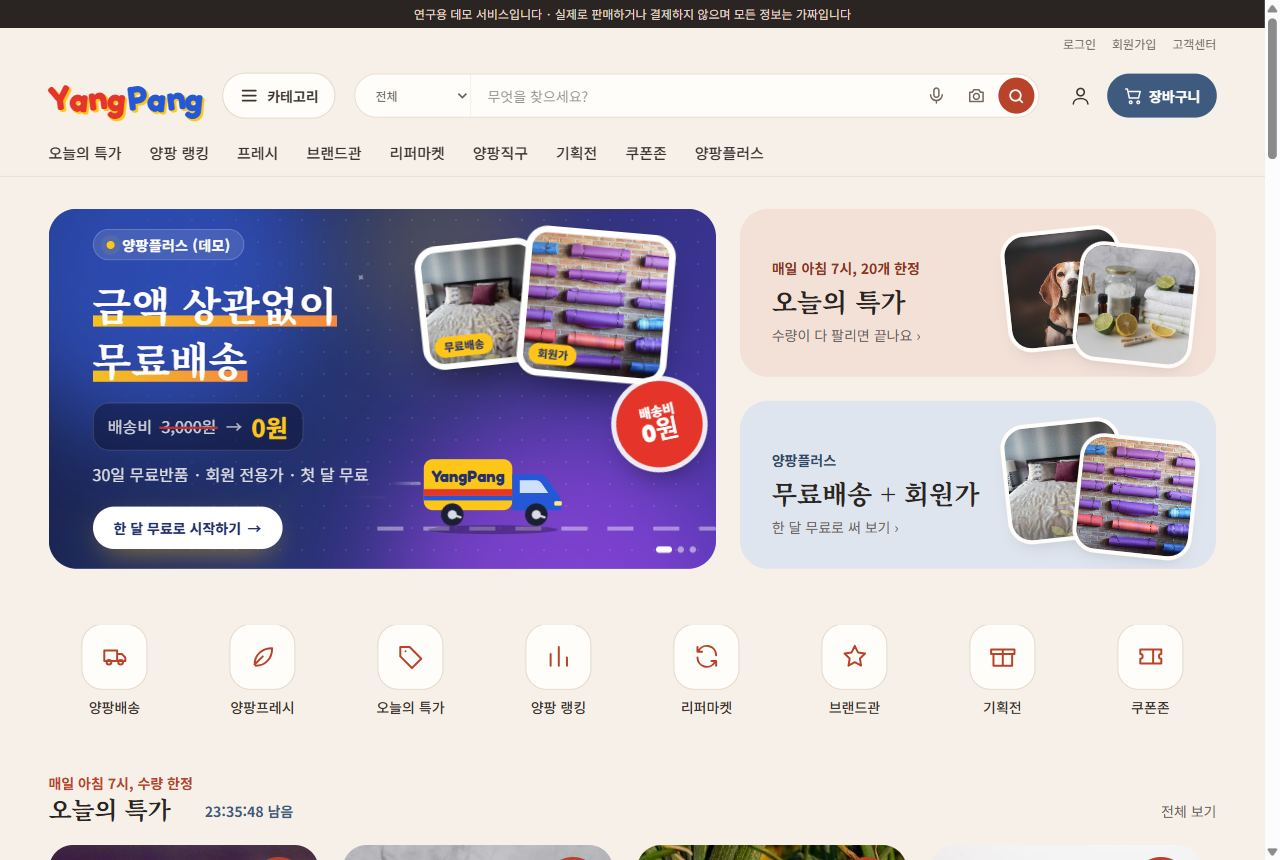
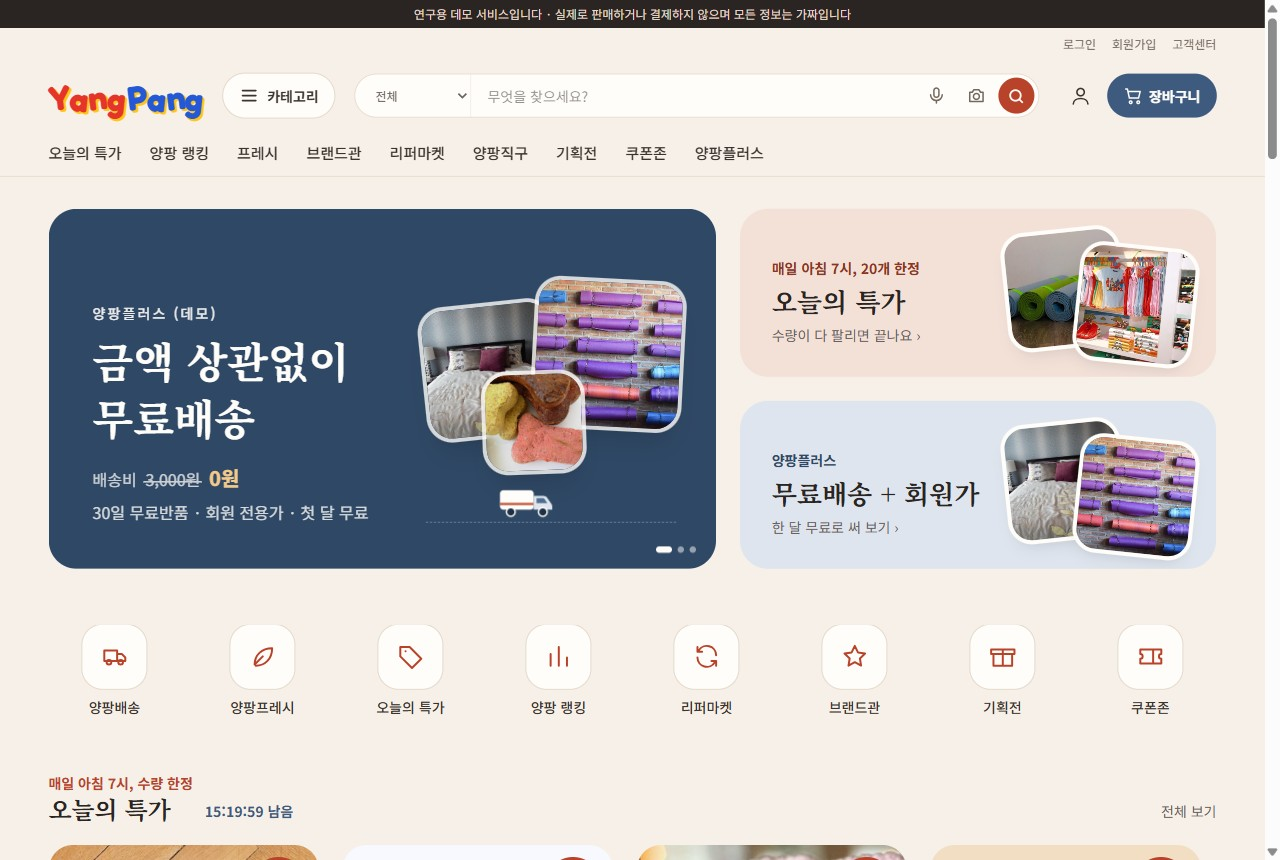
홈 무료배송 배너를 다른 배너와 같은 차분한 틀로 개편
- 빛 번짐·점 무늬·반짝이·형광펜·도장·흔들리는 트럭·빛나는 버튼 제거
- 단색 청회색 바탕, 왼쪽 아래 글자, 오른쪽 펼친 사진 카드 (다른 배너와 같은 틀)
- 움직임은 두 가지만: 배송비 3,000원 → 0원 한 번, 사진 아래 작은 트럭이 천천히 지나감 (PC)
- README 홈 스크린샷 갱신

diff --git a/api/src/main/tailwind/app.css b/api/src/main/tailwind/app.css
@@ -134,103 +134,30 @@
 }
 
 /*
- * ===== 홈 무료배송(양팡플러스) 배너 (2026-11-21) =====
- * 짙은 남색~보라 바탕 + 움직이는 빛 번짐, 로고 색 트럭이 달리는 길, 둥실 뜬 상품 사진 상자,
- * "배송비 3,000원 → 0원" 반복, 빛이 지나가는 버튼. 움직임 줄이기 설정이면 모두 멈춘다.
+ * ===== 홈 무료배송(양팡플러스) 배너 (2026-11-21 개편) =====
+ * 다른 배너와 같은 단색(plus) 바탕. 움직임은 두 가지만, 조용하게:
+ * 처음 한 번 "3,000원"에 줄이 그어지고 "0원"이 나타남, 사진 아래 길을 작은 트럭이 천천히 지나감.
  */
-.yp-free {
-  --yp-yellow: #ffc61a;
-  --yp-red: #e5352b;
-  --yp-blue: #2458d6;
-  background: linear-gradient(120deg, #141c3f 0%, #22306b 45%, #4a35a8 100%);
-  isolation: isolate;
+.yp-fee { display: inline-flex; align-items: baseline; gap: .55rem; }
+.yp-fee-old { position: relative; opacity: .75; }
+.yp-fee-old::after { content: ""; position: absolute; left: -2px; right: -2px; top: 55%; height: 1.5px; background: currentColor;
+  transform-origin: left; transform: scaleX(0); animation: yp-strike .6s .5s ease-out forwards; }
+@keyframes yp-strike { to { transform: scaleX(1); } }
+.yp-fee-new { font-weight: 800; font-size: 1.25em; color: #f3c98b; opacity: 0; animation: yp-zero .5s 1s ease-out forwards; }
+@keyframes yp-zero { from { opacity: 0; transform: translateY(4px); } to { opacity: 1; transform: none; } }
+
+.yp-lane { height: 34px; border-bottom: 1.5px dashed rgba(255,253,249,.35); }
+.yp-truck { position: absolute; left: 0; bottom: 3px; animation: yp-drive 9s linear infinite; }
+@keyframes yp-drive {
+  0% { transform: translateX(0); opacity: 0; }
+  8% { opacity: 1; }
+  85% { opacity: 1; }
+  100% { transform: translateX(192px); opacity: 0; }
 }
-.yp-free-blob {
-  position: absolute; border-radius: 9999px; filter: blur(48px); opacity: .55; z-index: -1;
-  animation: yp-blob 14s ease-in-out infinite alternate;
-}
-.yp-free-blob.b1 { width: 340px; height: 340px; left: -80px; top: -120px; background: #3d6bff; }
-.yp-free-blob.b2 { width: 300px; height: 300px; right: 8%; bottom: -150px; background: #b14dff; animation-delay: -6s; }
-.yp-free-blob.b3 { width: 180px; height: 180px; right: 30%; top: -60px; background: var(--yp-yellow); opacity: .22; animation-delay: -3s; }
-.yp-free-grid {
-  position: absolute; inset: 0; z-index: -1; opacity: .18;
-  background-image: radial-gradient(rgba(255,255,255,.55) 1px, transparent 1px);
-  background-size: 22px 22px;
-  mask-image: linear-gradient(90deg, transparent 0%, #000 45%, #000 100%);
-}
-@keyframes yp-blob { to { transform: translate(60px, 30px) scale(1.15); } }
-
-.yp-spark { position: absolute; color: #fff; font-size: 14px; opacity: 0; animation: yp-twinkle 3.2s ease-in-out infinite; }
-@keyframes yp-twinkle { 0%, 100% { opacity: 0; transform: scale(.4) rotate(0deg); } 50% { opacity: .95; transform: scale(1) rotate(90deg); } }
-
-/* 깜빡이는 점이 있는 문구 */
-.yp-chip { display: inline-flex; align-items: center; gap: .5rem; border-radius: 9999px; padding: .3rem .8rem;
-  background: rgba(255,255,255,.12); border: 1px solid rgba(255,255,255,.22); backdrop-filter: blur(6px); }
-.yp-dot { position: relative; width: 8px; height: 8px; border-radius: 9999px; background: var(--yp-yellow); }
-.yp-dot::after { content: ""; position: absolute; inset: 0; border-radius: 9999px; background: var(--yp-yellow); animation: yp-ping 1.8s cubic-bezier(0,0,.2,1) infinite; }
-@keyframes yp-ping { 75%, 100% { transform: scale(2.6); opacity: 0; } }
-
-/* 제목 형광펜 (그어지듯 나타남) */
-.yp-hl {
-  background-image: linear-gradient(90deg, rgba(255,198,26,.95), rgba(255,140,60,.95));
-  background-repeat: no-repeat; background-position: 0 88%; background-size: 0% .28em;
-  -webkit-box-decoration-break: clone; box-decoration-break: clone;
-  animation: yp-marker 1.1s .35s cubic-bezier(.2,.8,.2,1) forwards;
-}
-@keyframes yp-marker { to { background-size: 100% .28em; } }
-
-/* 배송비 3,000원 → 0원 (4초마다 반복) */
-.yp-fee { display: inline-flex; align-items: center; gap: .6rem; border-radius: 16px; padding: .45rem .9rem;
-  background: rgba(10,14,40,.45); border: 1px solid rgba(255,255,255,.16); }
-.yp-fee-old { position: relative; opacity: .8; }
-.yp-fee-old::after { content: ""; position: absolute; left: -2px; right: -2px; top: 52%; height: 2px; background: var(--yp-red);
-  transform-origin: left; transform: scaleX(0); animation: yp-strike 4s ease-in-out infinite; }
-@keyframes yp-strike { 0%, 12% { transform: scaleX(0); } 28%, 88% { transform: scaleX(1); } 100% { transform: scaleX(0); } }
-.yp-fee-new { display: inline-block; color: var(--yp-yellow); font-weight: 900; transform-origin: center; animation: yp-zero 4s ease-in-out infinite; }
-@keyframes yp-zero { 0%, 25% { transform: scale(.6); opacity: 0; } 36% { transform: scale(1.35); opacity: 1; } 44%, 88% { transform: scale(1); opacity: 1; } 100% { transform: scale(.6); opacity: 0; } }
-
-/* 빛이 지나가는 버튼 */
-.yp-cta { position: relative; overflow: hidden; align-items: center; gap: .4rem; border-radius: 9999px;
-  background: #fff; color: #22306b; font-weight: 800; padding: .7rem 1.3rem; box-shadow: 0 10px 30px -10px rgba(255,198,26,.65);
-  transition: transform .2s ease, box-shadow .2s ease; }
-.yp-free:hover .yp-cta { transform: translateY(-2px); box-shadow: 0 14px 34px -10px rgba(255,198,26,.9); }
-.yp-cta::after { content: ""; position: absolute; inset: 0; width: 40%;
-  background: linear-gradient(100deg, transparent, rgba(255,198,26,.55), transparent);
-  transform: translateX(-160%) skewX(-20deg); animation: yp-shine 3.4s ease-in-out infinite; }
-@keyframes yp-shine { 0%, 55% { transform: translateX(-160%) skewX(-20deg); } 85%, 100% { transform: translateX(320%) skewX(-20deg); } }
-.yp-cta .yp-arrow { transition: transform .2s ease; }
-.yp-free:hover .yp-cta .yp-arrow { transform: translateX(4px); }
-
-/* 오른쪽 무대: 길 + 트럭 + 떠 있는 사진 상자 */
-.yp-road { position: absolute; left: 0; right: 0; bottom: 38px; height: 4px; border-radius: 4px;
-  background: repeating-linear-gradient(90deg, rgba(255,255,255,.75) 0 26px, transparent 26px 46px);
-  background-size: 46px 4px; animation: yp-dash .55s linear infinite; opacity: .55; }
-@keyframes yp-dash { to { background-position: -46px 0; } }
-.yp-truck { position: absolute; animation: yp-truck-in 1.2s cubic-bezier(.2,.9,.3,1.2) both, yp-bob .5s ease-in-out 1.2s infinite alternate; }
-@keyframes yp-truck-in { from { transform: translateX(-260px); opacity: 0; } to { transform: translateX(0); opacity: 1; } }
-@keyframes yp-bob { to { transform: translateY(-3px); } }
-.yp-truck .yp-wheel { transform-box: fill-box; transform-origin: center; animation: yp-spin .5s linear infinite; }
-@keyframes yp-spin { to { transform: rotate(360deg); } }
-.yp-speed { position: absolute; height: 3px; border-radius: 3px; background: linear-gradient(90deg, transparent, rgba(255,255,255,.8));
-  animation: yp-speed .9s linear infinite; }
-@keyframes yp-speed { from { transform: translateX(30px); opacity: 0; } 30% { opacity: 1; } to { transform: translateX(-60px); opacity: 0; } }
-.yp-parcel { position: absolute; border-radius: 22px; overflow: hidden; background: #fff; padding: 6px;
-  box-shadow: 0 22px 40px -18px rgba(0,0,0,.6); animation: yp-float 4.5s ease-in-out infinite; }
-.yp-parcel img { display: block; width: 100%; height: 100%; object-fit: cover; border-radius: 16px; }
-.yp-parcel .yp-tag { position: absolute; left: 12px; bottom: 12px; border-radius: 9999px; padding: 2px 9px; font-size: 11px; font-weight: 800;
-  background: var(--yp-yellow); color: #22306b; }
-@keyframes yp-float { 0%, 100% { transform: translateY(0) rotate(var(--r, 0deg)); } 50% { transform: translateY(-12px) rotate(var(--r, 0deg)); } }
-.yp-stamp { position: absolute; display: flex; align-items: center; justify-content: center; border-radius: 9999px;
-  width: 86px; height: 86px; background: var(--yp-red); color: #fff; font-weight: 900; line-height: 1.05; text-align: center;
-  font-size: 13px; box-shadow: 0 0 0 5px rgba(255,255,255,.9), 0 16px 30px -10px rgba(0,0,0,.5);
-  animation: yp-stamp 4s ease-in-out infinite; }
-.yp-stamp b { display: block; font-size: 24px; font-family: "Fredoka", system-ui, sans-serif; }
-@keyframes yp-stamp { 0%, 30% { transform: scale(0) rotate(-40deg); } 40% { transform: scale(1.15) rotate(-8deg); } 48%, 90% { transform: scale(1) rotate(-12deg); } 100% { transform: scale(0) rotate(-40deg); } }
 
 @media (prefers-reduced-motion: reduce) {
-  .yp-free *, .yp-free *::before, .yp-free *::after { animation: none !important; transition: none !important; }
-  .yp-hl { background-size: 100% .28em; }
+  .yp-free *, .yp-free *::before, .yp-free *::after { animation: none !important; }
   .yp-fee-old::after { transform: scaleX(1); }
-  .yp-fee-new, .yp-stamp { opacity: 1; transform: none; }
-  .yp-spark { opacity: .6; }
+  .yp-fee-new { opacity: 1; }
+  .yp-truck { transform: translateX(96px); }
 }

diff --git a/api/src/main/resources/templates/fragments/promo.html b/api/src/main/resources/templates/fragments/promo.html
@@ -2,65 +2,38 @@
 <html lang="ko" xmlns:th="http://www.thymeleaf.org">
 <body>
 <!--
-  홈 무료배송(양팡플러스) 배너 슬라이드. 문구는 관리자 배너(제목·설명·문구)를 그대로 쓰고, 배송비는 운영 기준값.
+  홈 무료배송(양팡플러스) 배너 슬라이드. 다른 배너 슬라이드와 같은 틀(단색 바탕·왼쪽 아래 글자·오른쪽 사진 카드)에
+  "배송비 3,000원 → 0원" 한 줄과, 사진 아래 길을 천천히 지나가는 작은 트럭 하나만 더했다.
   pics: 플러스 회원가 상품 사진(@visuals), fee: 양팡배송 배송비. 움직임은 app.css의 .yp-free 참고
 -->
 <a th:fragment="plus(b, pics, fee)" th:href="${b.linkUrl}"
-   class="yp-free relative flex h-52 w-full shrink-0 snap-start items-center overflow-hidden p-6 text-white md:h-[360px] md:p-11">
-    <span class="yp-free-blob b1"></span><span class="yp-free-blob b2"></span><span class="yp-free-blob b3"></span>
-    <span class="yp-free-grid"></span>
-    <span class="yp-spark" style="left:46%;top:16%;animation-delay:.2s">✦</span>
-    <span class="yp-spark" style="left:58%;top:70%;animation-delay:1.4s;font-size:10px">✦</span>
-    <span class="yp-spark" style="left:88%;top:12%;animation-delay:2.1s">✦</span>
-    <span class="yp-spark" style="left:72%;top:28%;animation-delay:.9s;font-size:9px">✦</span>
-    <span class="yp-spark" style="left:36%;top:84%;animation-delay:2.6s;font-size:11px">✦</span>
-
-    <!-- 오른쪽 무대 (태블릿 이상): 떠 있는 사진 상자 + 도장 + 길 위를 달리는 트럭 -->
-    <div class="pointer-events-none absolute inset-y-0 right-0 hidden w-[52%] lg:block" aria-hidden="true">
-        <div th:if="${#lists.size(pics) > 0}" class="yp-parcel" style="--r:-6deg;right:50%;top:44px;width:124px;height:124px">
-            <img th:src="${pics[0]}" alt=""><span class="yp-tag">무료배송</span></div>
-        <div th:if="${#lists.size(pics) > 1}" class="yp-parcel" style="--r:5deg;right:13%;top:22px;width:150px;height:150px;animation-delay:-1.5s">
-            <img th:src="${pics[1]}" alt=""><span class="yp-tag">회원가</span></div>
-        <div class="yp-stamp" style="right:4%;top:172px"><span>배송비<b>0원</b></span></div>
-        <div class="yp-road"></div>
-        <span class="yp-speed" style="left:8%;bottom:70px;width:46px"></span>
-        <span class="yp-speed" style="left:14%;bottom:84px;width:30px;animation-delay:.3s"></span>
-        <svg class="yp-truck" style="left:14%;bottom:30px" width="150" height="84" viewBox="0 0 200 112" fill="none">
-            <ellipse cx="100" cy="104" rx="86" ry="6" fill="rgba(0,0,0,.28)"/>
-            <rect x="8" y="10" width="118" height="68" rx="12" fill="#ffc61a"/>
-            <rect x="8" y="50" width="118" height="9" fill="#e5352b"/>
-            <rect x="8" y="59" width="118" height="6" fill="#2458d6"/>
-            <text x="67" y="40" text-anchor="middle" font-family="Fredoka, system-ui, sans-serif" font-weight="700" font-size="22" fill="#22306b">YangPang</text>
-            <path d="M126 30h34c6 0 11 3 14 8l14 20c2 3 3 6 3 9v11H126z" fill="#2458d6"/>
-            <path d="M136 38h22c3 0 6 2 7 4l9 13h-38z" fill="#cfe0ff"/>
-            <rect x="182" y="66" width="10" height="6" rx="2" fill="#ffe680"/>
-            <g class="yp-wheel"><circle cx="46" cy="84" r="15" fill="#1b1f33"/><circle cx="46" cy="84" r="6" fill="#d9dbe6"/><rect x="44.5" y="71" width="3" height="8" rx="1.5" fill="#d9dbe6"/></g>
-            <g class="yp-wheel"><circle cx="158" cy="84" r="15" fill="#1b1f33"/><circle cx="158" cy="84" r="6" fill="#d9dbe6"/><rect x="156.5" y="71" width="3" height="8" rx="1.5" fill="#d9dbe6"/></g>
+   class="yp-free relative flex h-52 w-full shrink-0 snap-start items-end overflow-hidden bg-plus p-6 text-white md:h-[360px] md:p-11">
+    <!-- PC: 펼친 사진 카드 + 그 아래 길 위의 트럭 -->
+    <div class="absolute right-10 top-[44%] hidden -translate-y-1/2 lg:block"><div th:replace="~{fragments/visual :: fan(${pics}, 'md')}"></div></div>
+    <div class="yp-lane pointer-events-none absolute bottom-[46px] right-10 hidden w-[250px] lg:block" aria-hidden="true">
+        <svg class="yp-truck" width="58" height="32" viewBox="0 0 200 112" fill="none">
+            <rect x="8" y="10" width="118" height="68" rx="12" fill="#fffdf9"/>
+            <rect x="8" y="54" width="118" height="8" fill="#c0573a"/>
+            <path d="M126 30h34c6 0 11 3 14 8l14 20c2 3 3 6 3 9v11H126z" fill="#dee5ee"/>
+            <path d="M136 38h22c3 0 6 2 7 4l9 13h-38z" fill="#4f6d8f"/>
+            <circle cx="46" cy="86" r="15" fill="#1e2f44" stroke="#fffdf9" stroke-width="5"/>
+            <circle cx="158" cy="86" r="15" fill="#1e2f44" stroke="#fffdf9" stroke-width="5"/>
         </svg>
     </div>
-    <!-- 모바일: 트럭만 작게 -->
-    <svg class="yp-truck absolute right-3 top-5 md:right-8 md:top-8 md:h-[78px] md:w-[138px] lg:hidden" width="92" height="52" viewBox="0 0 200 112" fill="none" aria-hidden="true">
-        <rect x="8" y="10" width="118" height="68" rx="12" fill="#ffc61a"/>
-        <rect x="8" y="50" width="118" height="9" fill="#e5352b"/><rect x="8" y="59" width="118" height="6" fill="#2458d6"/>
-        <path d="M126 30h34c6 0 11 3 14 8l14 20c2 3 3 6 3 9v11H126z" fill="#2458d6"/>
-        <path d="M136 38h22c3 0 6 2 7 4l9 13h-38z" fill="#cfe0ff"/>
-        <g class="yp-wheel"><circle cx="46" cy="84" r="15" fill="#1b1f33"/><circle cx="46" cy="84" r="6" fill="#d9dbe6"/></g>
-        <g class="yp-wheel"><circle cx="158" cy="84" r="15" fill="#1b1f33"/><circle cx="158" cy="84" r="6" fill="#d9dbe6"/></g>
-    </svg>
+    <!-- 모바일: 사진 한 장 (다른 슬라이드와 같은 자리) -->
+    <img th:if="${!#lists.isEmpty(pics)}" th:src="${pics[0]}" alt="" aria-hidden="true" loading="lazy"
+         class="absolute -right-4 -top-3 h-32 w-32 rotate-6 rounded-[22px] object-cover opacity-95 shadow-xl ring-4 ring-white/70 lg:hidden">
 
-    <!-- 왼쪽 글자 -->
-    <div class="relative max-w-[70%] lg:max-w-[50%]">
-        <span class="yp-chip text-[11px] font-bold tracking-wide md:text-sm"><span class="yp-dot"></span>
-            <span th:text="${b.caption != null} ? ${b.caption} : '양팡플러스'">양팡플러스</span></span>
-        <p class="mt-2.5 break-keep font-serif text-[22px] font-bold leading-snug md:mt-4 md:text-[40px]"><span class="yp-hl" th:text="${b.title}">제목</span></p>
-        <p class="mt-2.5 md:mt-4"><span class="yp-fee whitespace-nowrap text-sm md:text-base">
-            <span class="opacity-80">배송비</span>
+    <div class="relative max-w-[62%] lg:max-w-[48%]">
+        <p class="text-xs font-medium tracking-[0.15em] opacity-90 md:text-sm"
+           th:text="${b.caption != null} ? ${b.caption} : '양팡플러스'">양팡플러스</p>
+        <p class="mt-2 break-keep font-serif text-[26px] font-bold leading-snug md:text-[42px]" th:text="${b.title}">제목</p>
+        <p class="yp-fee mt-3 text-sm md:mt-4 md:text-base">
+            <span class="opacity-75">배송비</span>
             <span class="yp-fee-old" th:text="${#numbers.formatInteger(fee, 1, 'COMMA')} + '원'">3,000원</span>
-            <span aria-hidden="true" class="opacity-70">→</span>
-            <span class="yp-fee-new text-lg md:text-2xl">0원</span>
-        </span></p>
-        <p th:if="${b.subtitle != null}" class="mt-3 hidden text-sm opacity-85 sm:block md:text-base" th:text="${b.subtitle}">설명</p>
-        <span class="yp-cta mt-5 hidden text-sm md:inline-flex">한 달 무료로 시작하기 <span class="yp-arrow" aria-hidden="true">→</span></span>
+            <span class="yp-fee-new">0원</span>
+        </p>
+        <p th:if="${b.subtitle != null}" class="mt-2 hidden text-sm opacity-80 sm:block md:text-base" th:text="${b.subtitle}">설명</p>
     </div>
 </a>
 </body>

diff --git a/yangpang.md b/yangpang.md
@@ -793,6 +793,7 @@ yangpang/
   - Thymeleaf는 조각 끼우기(`th:replace`) 안에서 빈 호출을 막으므로 `th:with`로 먼저 받아 넘김
   - 쿠폰존·출석·친구초대 카드는 쿠폰·이벤트 모양 그대로 둠. 강아지 간식 사진 중 벽돌처럼 보이는 1장은 뺌(473장)
 - 2026-11-21 **홈 무료배송(양팡플러스) 배너 전용 디자인** (사용자 "썰렁한데 애니메이션 효과 포함해서 세련되게 눈에 띄게"): 배너 테마가 PLUS면 `fragments/promo :: plus`로 그림. 짙은 남색~보라 바탕에 움직이는 빛 번짐·점 무늬·반짝이, 제목 형광펜이 그어지듯 나타남, "배송비 3,000원(운영 기준값) → 0원" 4초마다 반복, 로고 색(노랑 짐칸·빨강/파랑 띠·파랑 운전석) 트럭이 길 위를 달려 들어와 흔들림(바퀴 회전·속도선), 회원가 상품 사진 상자 둥실·"배송비 0원" 도장, 빛이 지나가는 "한 달 무료로 시작하기" 버튼. 문구는 관리자 배너 값 그대로. 넓은 화면(lg)만 사진·도장·길, 태블릿·모바일은 트럭만. 움직임 줄이기 설정이면 모두 멈춘 최종 모습. 쿠팡의 로켓 이미지는 쓰지 않음
+- 2026-11-21 **무료배송 배너 차분하게 개편** (사용자 "주변과 조화가 안 되고 산만해 보여"): 빛 번짐·점 무늬·반짝이·형광펜·도장·흔들리는 트럭·빛나는 버튼을 모두 뺌. 다른 배너와 같은 틀(단색 `bg-plus` 청회색 바탕, 왼쪽 아래 글자, 오른쪽 펼친 사진 카드, 모바일 사진 한 장)로 맞추고 더한 것은 두 가지: "배송비 3,000원 → 0원"(처음 한 번만 줄 긋기·0원 나타남), 사진 아래 점선 길을 크림색 작은 트럭이 9초에 한 번 천천히 지나감(PC만). 버튼은 다른 배너처럼 없음
 - 2026-11-21 **테스트용 공개(사용자 "이건 그냥 테스트용")**: 서버 대신 이 PC + Cloudflare 임시 터널(가입 없음, 주소가 매번 바뀜). `start-demo.bat`/`stop-demo.bat`(실제 동작은 `tools/demo/*.ps1`: 배치 파일에 한국어를 쓰면 UTF-8 콘솔에서 줄 위치가 어긋나는 문제가 있어 배치는 영어 실행기만). Vercel은 Java 서버·상시 실행(시뮬레이터)이 안 돼 불가, 계속 켜 둘 주소가 필요하면 Railway 권장(미정). 재부팅 후 자동 시작은 하지 않음
 - 2026-11-21 검사 보완: 시나리오 5의 "배송 완료"가 주문상품 번호(%20==7, 하루 늦게 배송되는 지연 대상)와 시간대(오전)에 따라 실패 → 가속할 때 도착 예정일을 이틀 전으로
 
